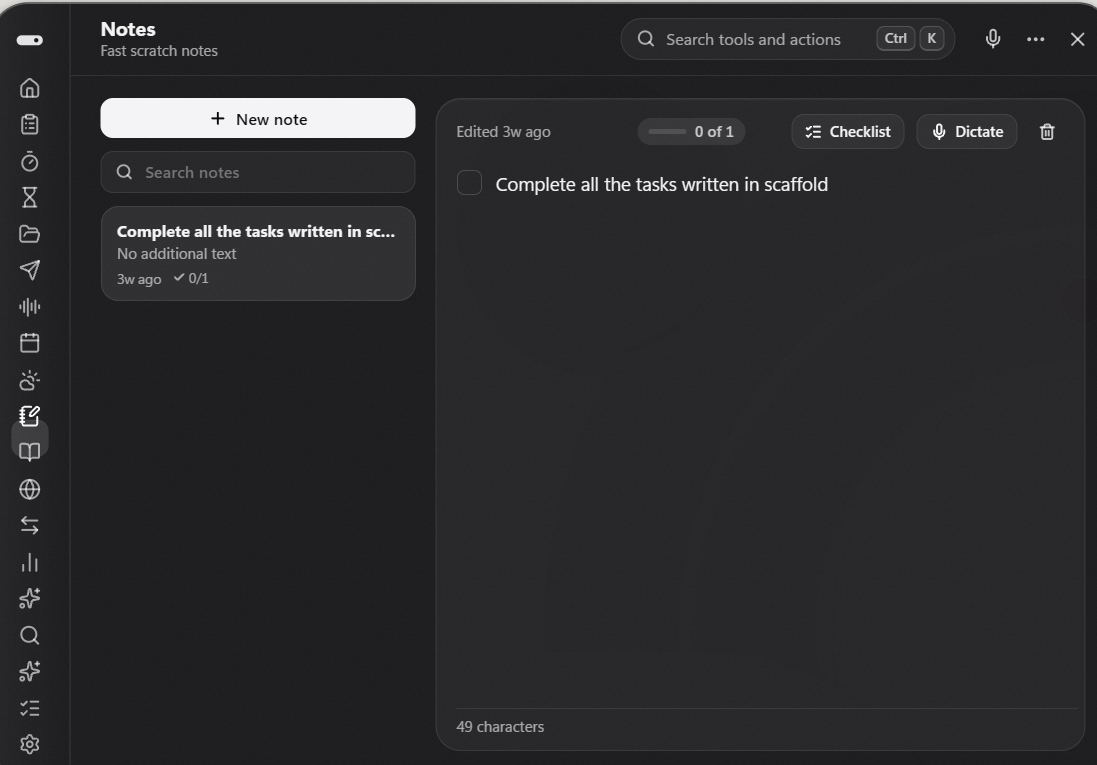
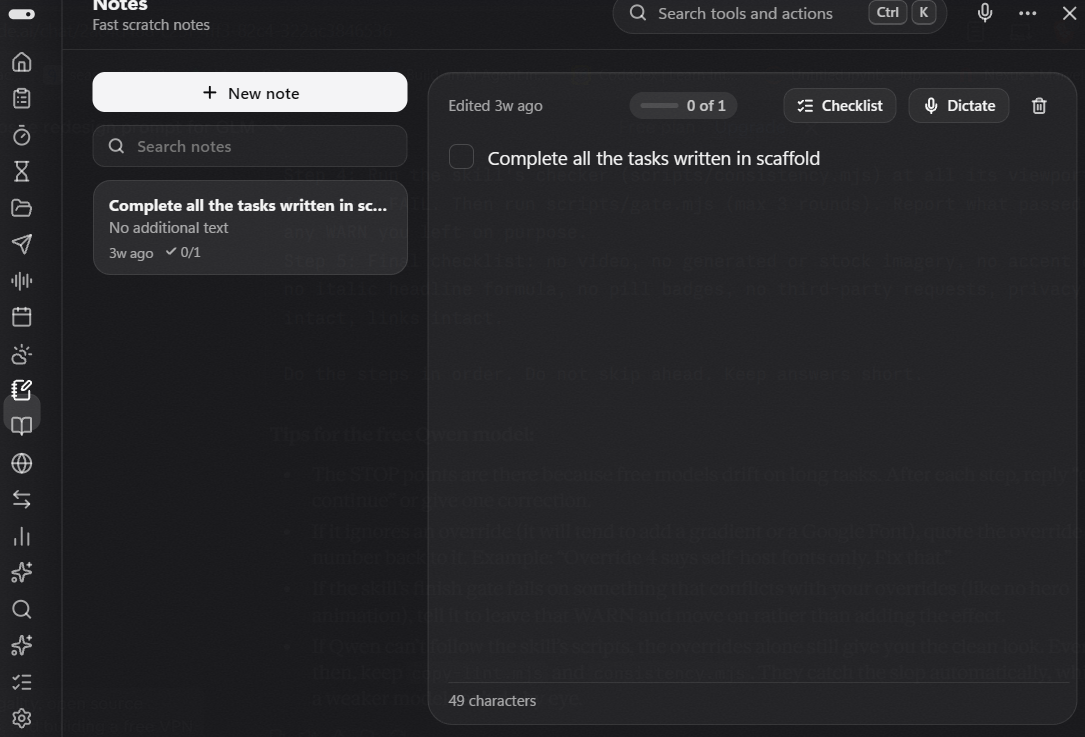
web: replace notes and quick-transfer screenshots, fix mobile responsiveness and CSS cache-busting

diff --git a/web/index.html b/web/index.html
@@ -22,8 +22,8 @@
   <meta name="twitter:image" content="/og-image.png" />
   <link rel="icon" href="/favicon.svg" type="image/svg+xml" />
   <link rel="preload" href="/fonts/inter-latin-wght-normal.woff2" as="font" type="font/woff2" crossorigin />
-  <link rel="stylesheet" href="/styles.css" />
-  <link rel="stylesheet" href="/home.css" />
+  <link rel="stylesheet" href="/styles.css?v=5" />
+  <link rel="stylesheet" href="/home.css?v=5" />
   <script type="application/ld+json">
   {
     "@context": "https://schema.org",
@@ -89,7 +89,7 @@
           <div class="hero__stage">
             <div class="notch-frame">
               <div class="notch-bezel">
-                <img src="/screenshots/pill-eyes.png" width="386" height="95" alt="Krovi resting at the top of the screen as a dark notch pill with two pixel eyes" fetchpriority="high" />
+                <img src="/screenshots/pill-eyes.png?v=2" width="386" height="95" alt="Krovi resting at the top of the screen as a dark notch pill with two pixel eyes" fetchpriority="high" />
               </div>
               <div class="notch-caption">
                 <p>Rests at the top edge. Blinks, follows your cursor, opens in one shortcut.</p>
@@ -131,7 +131,7 @@
         </div>
         <div class="split-sec__shot">
           <div class="shot-frame">
-            <img src="/screenshots/home-panel.png" width="1124" height="773" loading="lazy" alt="Krovi Home panel showing the left tool rail, Now Playing, System memory and disk rings, Weather, Timers, Latest Clips and Next Up reminders" />
+            <img src="/screenshots/home-panel.png?v=2" width="1124" height="773" loading="lazy" alt="Krovi Home panel showing the left tool rail, Now Playing, System memory and disk rings, Weather, Timers, Latest Clips and Next Up reminders" />
           </div>
         </div>
       </div>
@@ -147,7 +147,7 @@
       <div class="pair-shots">
         <div class="pair-shots__item" id="notes-view">
           <div class="shot-frame">
-            <img src="/screenshots/notes.png" width="1097" height="765" loading="lazy" alt="Krovi Notes tool with New note, search, inline checklist progress and Dictate button" />
+            <img src="/screenshots/notes.png?v=2" width="1085" height="737" loading="lazy" alt="Krovi Notes tool with New note, search, inline checklist progress and Dictate button" />
           </div>
           <div class="shot-meta">
             <strong>Notes &amp; dictation</strong>
@@ -156,7 +156,7 @@
         </div>
         <div class="pair-shots__item" id="transfer">
           <div class="shot-frame">
-            <img src="/screenshots/quick-transfer.png" width="1117" height="777" loading="lazy" alt="Krovi Quick Transfer view with Send to phone, Receive from phone, QR drop zone, optional 4-digit PIN and 10-minute link expiry" />
+            <img src="/screenshots/quick-transfer.png?v=2" width="1091" height="750" loading="lazy" alt="Krovi Quick Transfer view with Send to phone, Receive from phone, QR drop zone, optional 4-digit PIN and 10-minute link expiry" />
           </div>
           <div class="shot-meta">
             <strong>Quick Transfer</strong>
@@ -190,7 +190,7 @@
         </div>
         <div class="split-sec__shot">
           <div class="shot-frame">
-            <img src="/screenshots/themes.png" width="868" height="530" loading="lazy" alt="Krovi Appearance settings showing Follow system and ten themes: Graphite, Porcelain, Obsidian, Linen, Mochi, Arcade, Terracotta, Tide, Voxel and Pixel Meadow" />
+            <img src="/screenshots/themes.png?v=2" width="868" height="530" loading="lazy" alt="Krovi Appearance settings showing Follow system and ten themes: Graphite, Porcelain, Obsidian, Linen, Mochi, Arcade, Terracotta, Tide, Voxel and Pixel Meadow" />
           </div>
         </div>
       </div>
@@ -377,7 +377,7 @@
   </div>
 </footer>
 
-<script src="/app.js" defer></script>
-<script src="/home.js" defer></script>
+<script src="/app.js?v=5" defer></script>
+<script src="/home.js?v=5" defer></script>
 </body>
 </html>

diff --git a/web/home.css b/web/home.css
@@ -18,6 +18,14 @@ footer.closing.band-alt {
   main > section,
   footer.closing {
     padding-block: 56px;
+    height: auto;
+    min-height: 0;
+  }
+  main > section.hero {
+    min-height: 0;
+    height: auto;
+    padding-top: calc(var(--nav) + 28px);
+    padding-bottom: 40px;
   }
 }
 
@@ -148,12 +156,14 @@ main > section.hero {
 }
 
 @media (max-width: 1023px) {
+  .hero__grid {
+    grid-template-columns: minmax(0, 1fr);
+    gap: 32px;
+  }
   .hero__copy,
   .hero__stage {
     grid-column: 1 / -1;
-  }
-  .hero__grid {
-    gap: 32px;
+    min-width: 0;
   }
   .hero__lead {
     font-size: 18px;
@@ -168,6 +178,14 @@ main > section.hero {
   }
 }
 @media (max-width: 639px) {
+  .hero-text,
+  .hero > .wrap {
+    gap: 28px;
+  }
+  .hero__grid {
+    gap: 24px;
+    margin-block: 0;
+  }
   .hero__lead {
     margin-top: 14px;
     font-size: 16px;
@@ -176,11 +194,26 @@ main > section.hero {
     margin-top: 20px;
   }
   .notch-bezel {
-    min-height: 140px;
+    min-height: 128px;
+    padding: 24px 16px;
+  }
+  .notch-caption {
+    padding: 12px 14px;
   }
   .hero__facts {
+    grid-template-columns: 1fr 1fr;
     padding-top: 16px;
-    gap: 12px 16px;
+    gap: 14px 12px;
+  }
+  .hero__facts > div {
+    min-width: 0;
+  }
+  .hero__facts dd {
+    font-size: 14px;
+  }
+  .hero__facts kbd {
+    padding: 1px 4px;
+    font-size: 12px;
   }
 }
 
@@ -249,12 +282,14 @@ main > section.hero {
 }
 
 @media (max-width: 1023px) {
+  .split-sec {
+    grid-template-columns: minmax(0, 1fr);
+    gap: 28px;
+  }
   .split-sec__copy,
   .split-sec__shot {
     grid-column: 1 / -1;
-  }
-  .split-sec {
-    gap: 28px;
+    min-width: 0;
   }
 }
 
@@ -285,11 +320,13 @@ main > section.hero {
 }
 
 @media (max-width: 900px) {
+  .pair-shots {
+    grid-template-columns: minmax(0, 1fr);
+    gap: 32px;
+  }
   .pair-shots__item {
     grid-column: 1 / -1;
-  }
-  .pair-shots {
-    gap: 32px;
+    min-width: 0;
   }
 }
 
@@ -379,12 +416,19 @@ main > section.hero {
     margin-bottom: 28px;
   }
   .providers-grid {
-    grid-template-columns: 1fr 1fr;
-    gap: 12px;
+    grid-template-columns: 1fr;
+    gap: 10px;
   }
   .provider-tile {
-    padding: 16px;
-    min-height: 144px;
+    flex-direction: row;
+    align-items: center;
+    justify-content: flex-start;
+    gap: 16px;
+    padding: 14px 16px;
+    min-height: 0;
+  }
+  .provider-tile > div {
+    min-width: 0;
   }
 }
 
@@ -468,17 +512,26 @@ main > section.hero {
     width: 100%;
   }
   .privacy-table tbody tr {
-    padding: 8px 0;
+    padding: 12px 0;
     border-bottom: 1px solid var(--border);
+  }
+  .privacy-table tbody tr.group-row {
+    padding: 20px 0 6px;
+    border-bottom: 1px solid var(--border-strong);
   }
   .privacy-table tbody th,
   .privacy-table tbody td,
   .privacy-table tbody td:last-child {
     width: 100%;
-    padding: 1px 0;
+    padding: 2px 0;
     border: 0;
   }
+  .privacy-table tbody tr.group-row th {
+    padding: 0;
+    color: var(--muted);
+  }
   .privacy-table tbody td:last-child {
+    margin-top: 2px;
     font-size: 13px;
     color: var(--muted);
   }
@@ -530,8 +583,17 @@ main > section.hero {
 }
 @media (max-width: 639px) {
   .tools-list {
-    grid-template-columns: 1fr 1fr;
-    gap: 0 16px;
+    grid-template-columns: 1fr;
+  }
+  .tools-list li {
+    flex-direction: row;
+    align-items: baseline;
+    justify-content: space-between;
+    gap: 12px;
+    padding: 10px 0;
+  }
+  .tools-list span {
+    text-align: right;
   }
 }
 
@@ -654,6 +716,12 @@ footer.closing > .wrap {
   }
 }
 @media (max-width: 639px) {
+  .closing__cta {
+    grid-template-columns: minmax(0, 1fr);
+  }
+  .closing__cols {
+    grid-template-columns: repeat(2, minmax(0, 1fr));
+  }
   .requirements > div {
     grid-template-columns: 1fr;
     gap: 2px;
@@ -664,7 +732,7 @@ footer.closing > .wrap {
   }
   .footer-col,
   .footer-col:last-child {
-    grid-column: span 6;
+    grid-column: span 1;
   }
   .footer-col a {
     min-height: 44px;

diff --git a/web/docs.html b/web/docs.html
@@ -20,8 +20,8 @@
   <meta name="twitter:image" content="/og-image.png" />
   <link rel="icon" href="/favicon.svg" type="image/svg+xml" />
   <link rel="preload" href="/fonts/inter-latin-wght-normal.woff2" as="font" type="font/woff2" crossorigin />
-  <link rel="stylesheet" href="/styles.css" />
-  <link rel="stylesheet" href="/pages.css" />
+  <link rel="stylesheet" href="/styles.css?v=5" />
+  <link rel="stylesheet" href="/pages.css?v=5" />
 </head>
 <body data-page="docs">
 <header class="nav">
@@ -480,6 +480,6 @@ cd src-tauri; cargo build</code></pre></div></div></div>
   </div>
 </footer>
 
-<script src="/app.js" defer></script>
+<script src="/app.js?v=5" defer></script>
 </body>
 </html>

diff --git a/web/changelog.html b/web/changelog.html
@@ -20,8 +20,8 @@
   <meta name="twitter:image" content="/og-image.png" />
   <link rel="icon" href="/favicon.svg" type="image/svg+xml" />
   <link rel="preload" href="/fonts/inter-latin-wght-normal.woff2" as="font" type="font/woff2" crossorigin />
-  <link rel="stylesheet" href="/styles.css" />
-  <link rel="stylesheet" href="/pages.css" />
+  <link rel="stylesheet" href="/styles.css?v=5" />
+  <link rel="stylesheet" href="/pages.css?v=5" />
 </head>
 <body data-page="changelog">
 <header class="nav">
@@ -154,6 +154,6 @@
   </div>
 </footer>
 
-<script src="/app.js" defer></script>
+<script src="/app.js?v=5" defer></script>
 </body>
 </html>

diff --git a/web/download.html b/web/download.html
@@ -20,8 +20,8 @@
   <meta name="twitter:image" content="/og-image.png" />
   <link rel="icon" href="/favicon.svg" type="image/svg+xml" />
   <link rel="preload" href="/fonts/inter-latin-wght-normal.woff2" as="font" type="font/woff2" crossorigin />
-  <link rel="stylesheet" href="/styles.css" />
-  <link rel="stylesheet" href="/pages.css" />
+  <link rel="stylesheet" href="/styles.css?v=5" />
+  <link rel="stylesheet" href="/pages.css?v=5" />
 </head>
 <body data-page="download">
 <header class="nav">
@@ -177,6 +177,6 @@
   </div>
 </footer>
 
-<script src="/app.js" defer></script>
+<script src="/app.js?v=5" defer></script>
 </body>
 </html>

diff --git a/web/compare.html b/web/compare.html
@@ -20,8 +20,8 @@
   <meta name="twitter:image" content="/og-image.png" />
   <link rel="icon" href="/favicon.svg" type="image/svg+xml" />
   <link rel="preload" href="/fonts/inter-latin-wght-normal.woff2" as="font" type="font/woff2" crossorigin />
-  <link rel="stylesheet" href="/styles.css" />
-  <link rel="stylesheet" href="/pages.css" />
+  <link rel="stylesheet" href="/styles.css?v=5" />
+  <link rel="stylesheet" href="/pages.css?v=5" />
 </head>
 <body data-page="compare">
 <header class="nav">
@@ -146,6 +146,6 @@
   </div>
 </footer>
 
-<script src="/app.js" defer></script>
+<script src="/app.js?v=5" defer></script>
 </body>
 </html>

diff --git a/web/404.html b/web/404.html
@@ -11,8 +11,8 @@
   <meta name="color-scheme" content="light dark" />
   <link rel="icon" href="/favicon.svg" type="image/svg+xml" />
   <link rel="preload" href="/fonts/inter-latin-wght-normal.woff2" as="font" type="font/woff2" crossorigin />
-  <link rel="stylesheet" href="/styles.css" />
-  <link rel="stylesheet" href="/pages.css" />
+  <link rel="stylesheet" href="/styles.css?v=5" />
+  <link rel="stylesheet" href="/pages.css?v=5" />
 </head>
 <body data-page="404">
 <header class="nav">
@@ -80,6 +80,6 @@
   </div>
 </footer>
 
-<script src="/app.js" defer></script>
+<script src="/app.js?v=5" defer></script>
 </body>
 </html>
